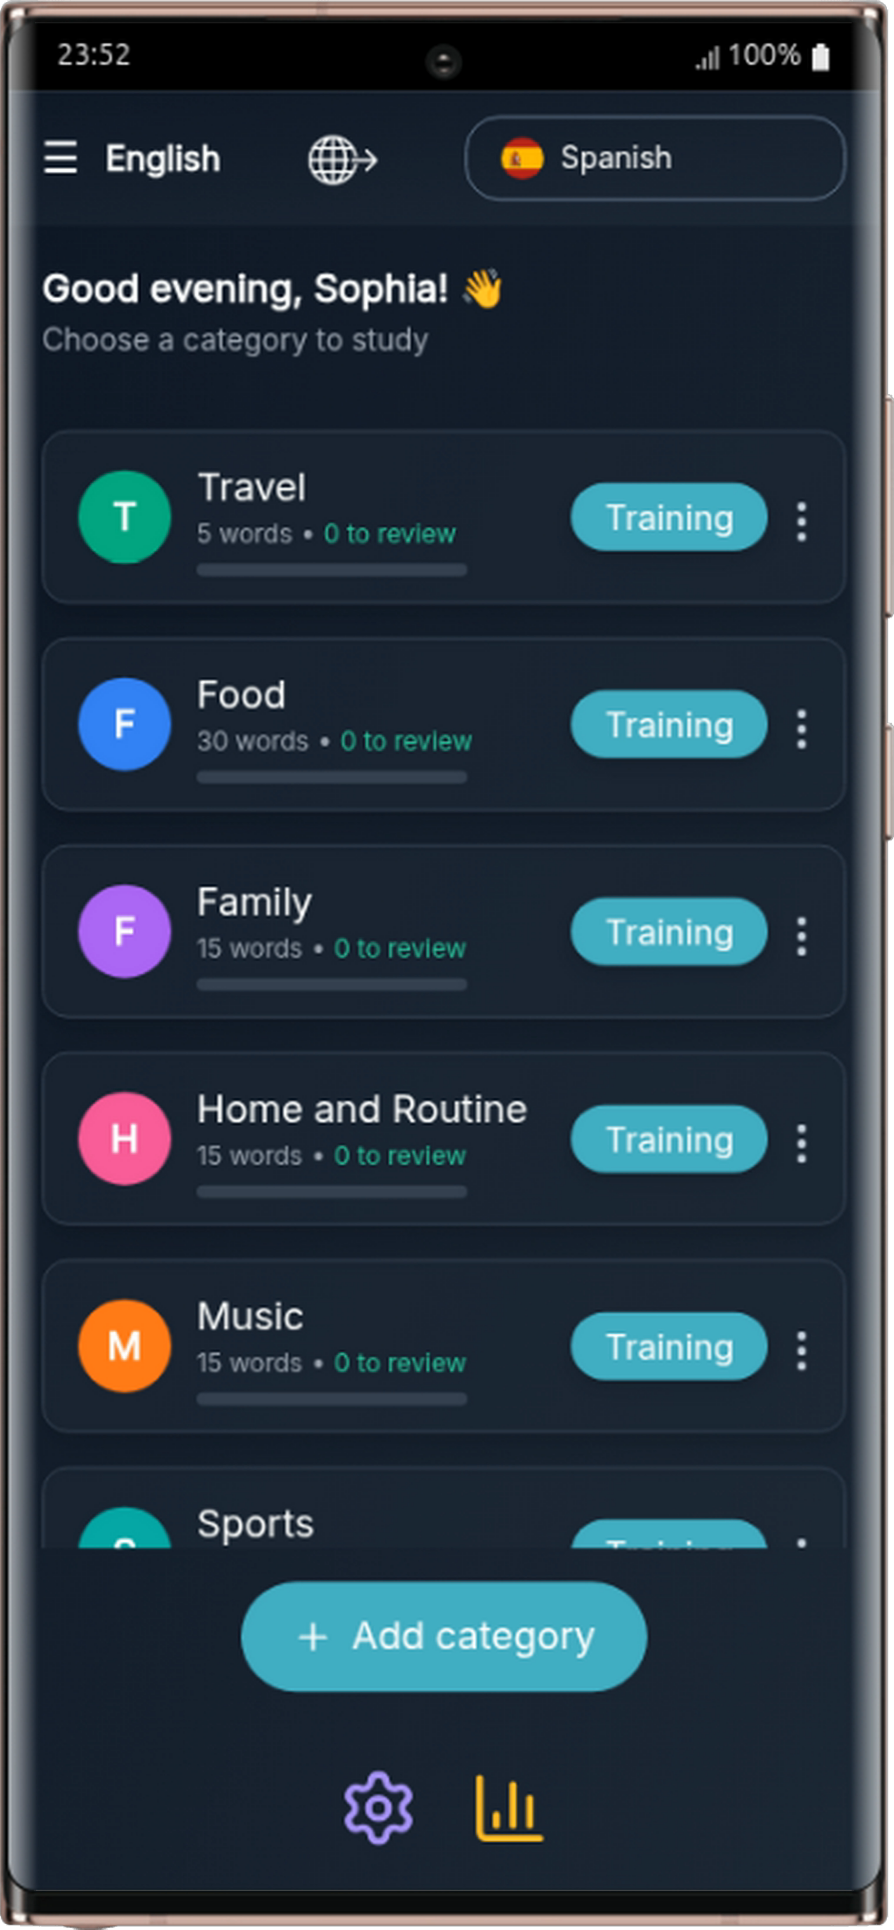
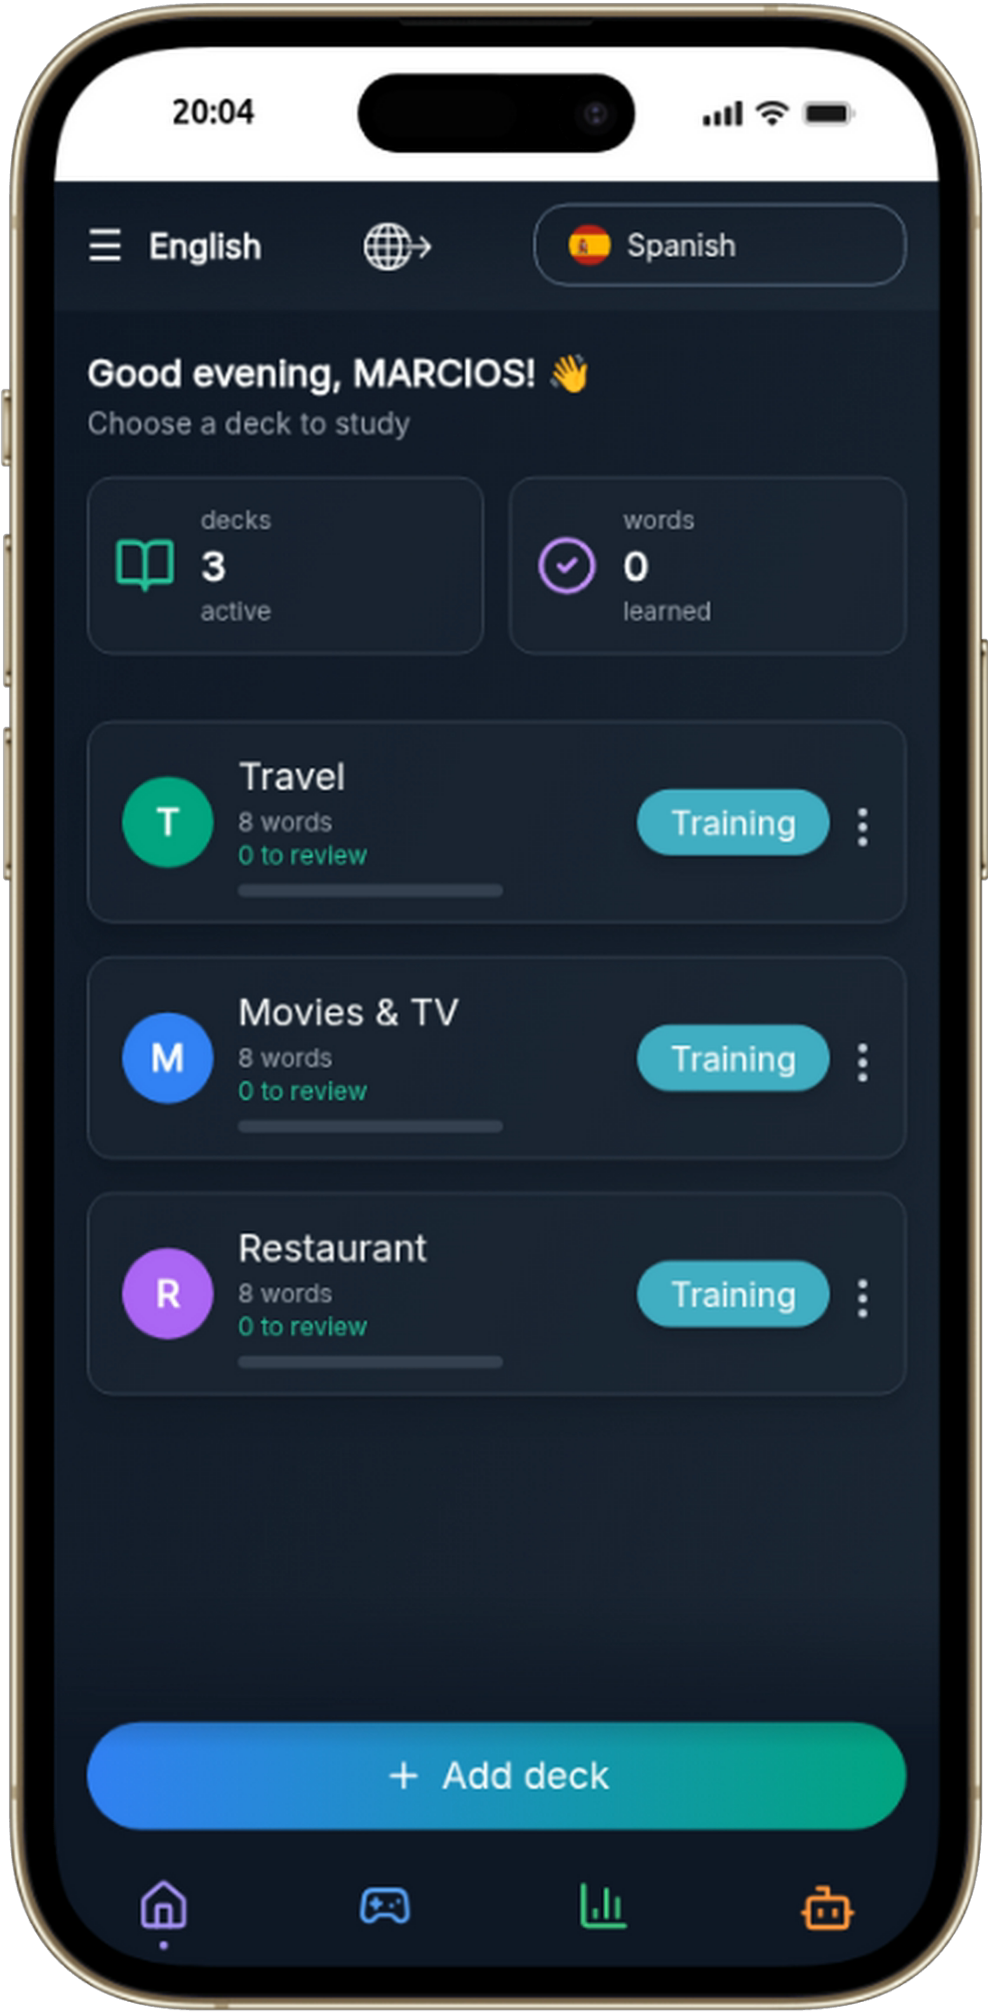
Atualiza screenshots do slide da landing page pras telas atuais do app
As imagens antigas (categorias, digitar, correto) mostravam uma versão
desatualizada do app (nav inferior antiga, sem os ícones de jogo/IA
atuais). Substituídas por capturas novas em moldura iPhone 14 Pro Max,
e adicionado um 4º slide com o jogo Chuva de Frases.

diff --git a/src/pages/LandingPage.jsx b/src/pages/LandingPage.jsx
@@ -17,10 +17,11 @@ import imgZaldemy from "../assets/img/zaldemy.png";
 import imgSlideCategorias from "../assets/img/landing-screenshot-categorias.png";
 import imgSlideDigitar from "../assets/img/landing-screenshot-digitar.png";
 import imgSlideCorreto from "../assets/img/landing-screenshot-correto.png";
+import imgSlideChuva from "../assets/img/landing-screenshot-chuva.png";
 
 const iconesRecursos = [Languages, Layers, RotateCcw, Volume2, BarChart3, Share2];
 
-const slidesApp = [imgSlideCategorias, imgSlideDigitar, imgSlideCorreto];
+const slidesApp = [imgSlideCategorias, imgSlideDigitar, imgSlideCorreto, imgSlideChuva];
 
 // TODO: trocar para true e colocar o link real assim que o app for aprovado na Aptoide
 const APTOIDE_DISPONIVEL = false;
